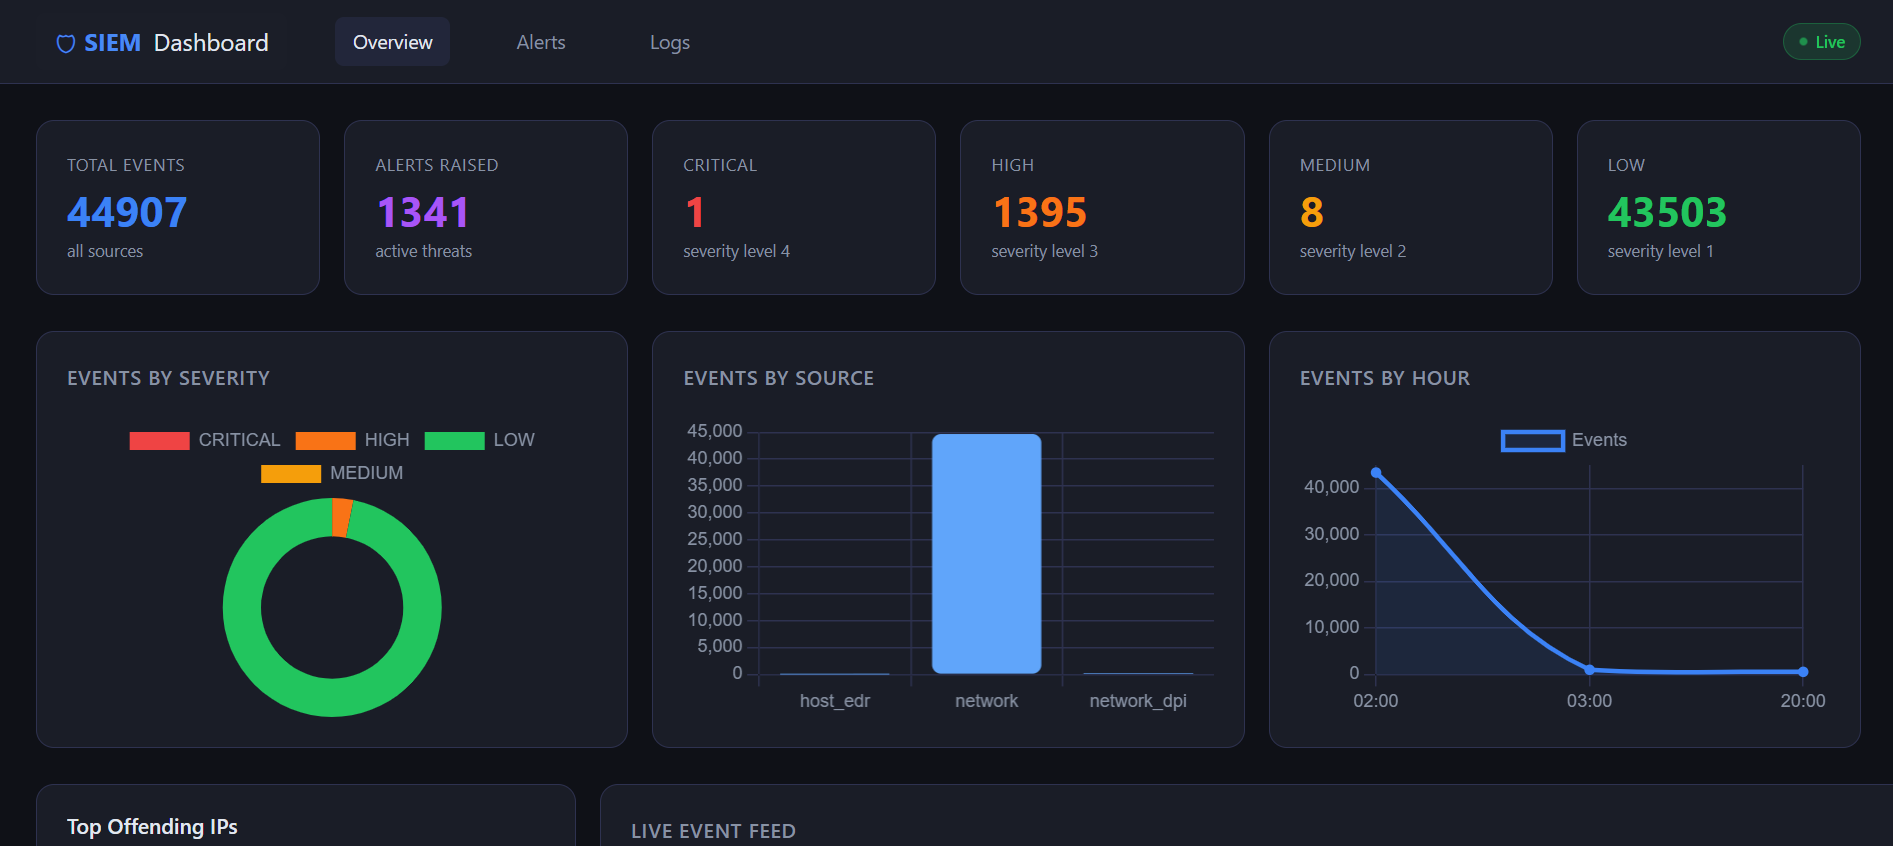
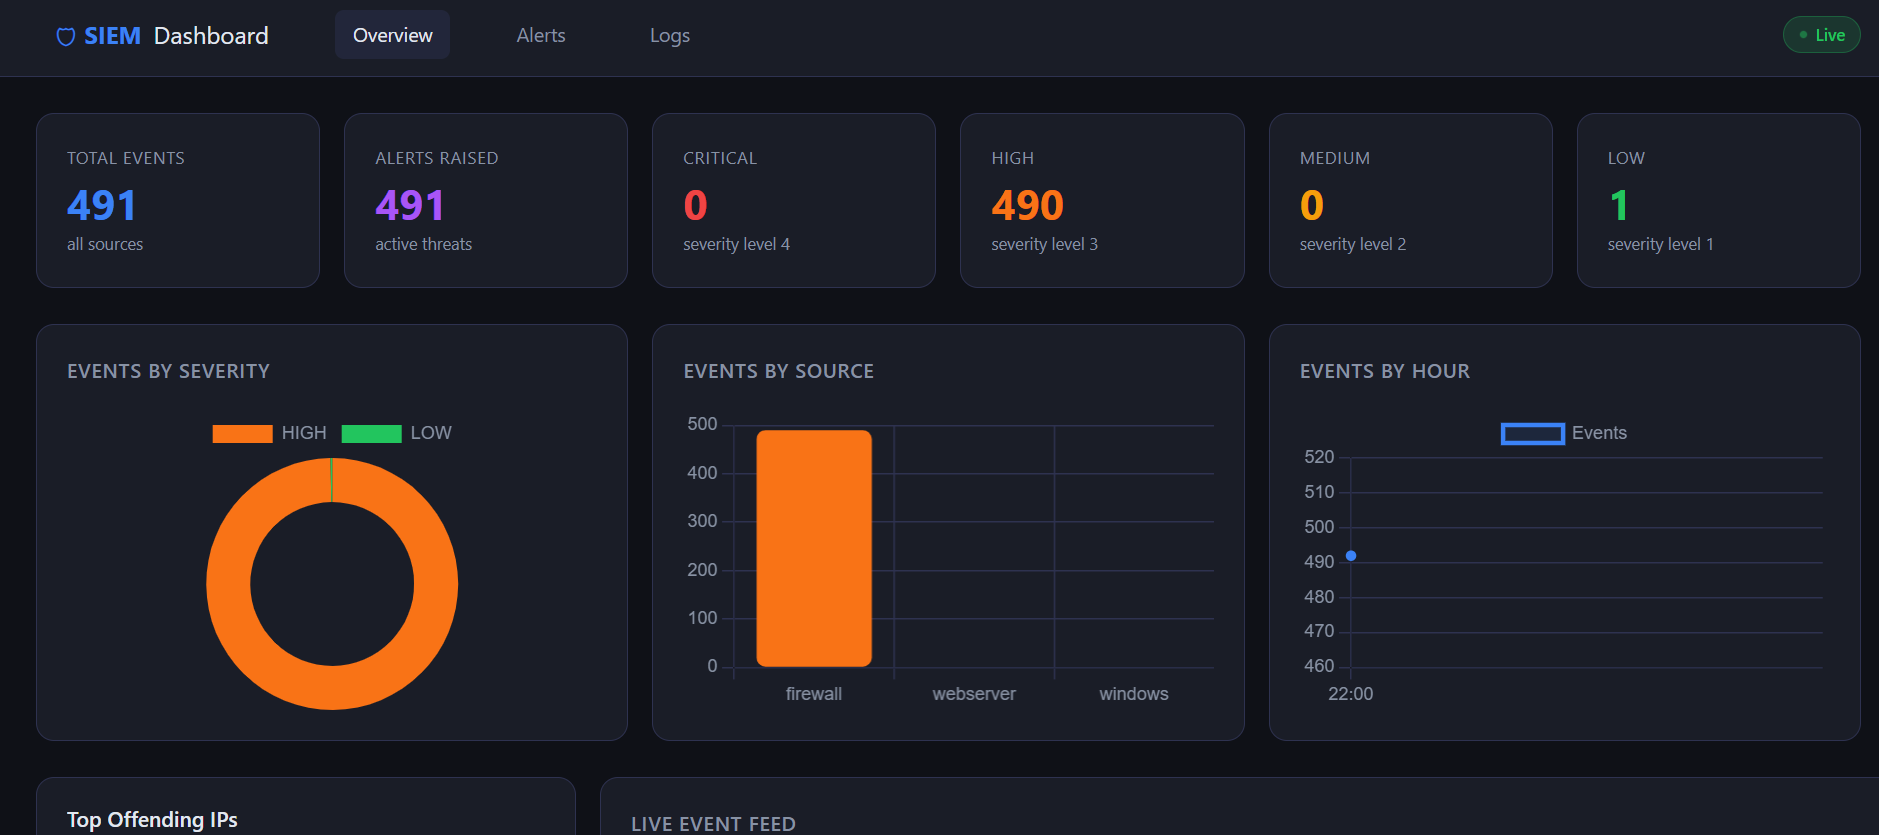
Feat: Complete SOAR Automated Incident Response loop with active firewall mitigation and real-time dashboard tracking

diff --git a/dashboard/templates/alerts.html b/dashboard/templates/alerts.html
@@ -53,7 +53,9 @@
             <td style="font-family:monospace;font-size:12px">{{ alert.src_ip }}</td>
             <td title="{{ alert.description }}">{{ alert.description[:70] }}{% if alert.description|length > 70 %}...{% endif %}</td>
             <td>
-              {% if alert.resolved %}
+              {% if alert.status == 'CONTAINED' %}
+                <span class="badge" style="background:rgba(14,165,233,.15);color:#0ea5e9;border:1px solid rgba(14,165,233,.3)">Contained</span>
+              {% elif alert.resolved %}
                 <span class="badge" style="background:rgba(34,197,94,.15);color:#22c55e;border:1px solid rgba(34,197,94,.3)">Resolved</span>
               {% else %}
                 <span class="badge" style="background:rgba(239,68,68,.1);color:#ef4444;border:1px solid rgba(239,68,68,.2)">Open</span>

diff --git a/soar_engine.py b/soar_engine.py
@@ -1,0 +1,90 @@
+"""
+soar_engine.py
+Aegis SOAR Automation Hub - Automated Incident Response Engine.
+Monitors the alerts database and auto-deploys local firewall blocks.
+"""
+
+import os
+import time
+import sqlite3
+import subprocess
+
+BASE_DIR = os.path.dirname(os.path.abspath(__file__))
+DB_PATH = os.path.join(BASE_DIR, "storage", "siem.db")
+
+# Keep track of malicious assets we have already blocked during this runtime session
+BLOCKED_IPS = set()
+
+def execute_firewall_ban(ip_address):
+    """Executes a native Windows Advanced Firewall inbound blocking rule via administrative shell"""
+    ip_clean = str(ip_address).strip()
+    
+    if not ip_clean or ip_clean in BLOCKED_IPS or "127.0.0.1" in ip_clean or "localhost" in ip_clean:
+        return False
+        
+    rule_name = f"AEGIS_SOAR_AUTO_BLOCK_{ip_clean}"
+    print(f"\n[💥 SOAR PLAYBOOK TRIGGERED] High severity threat isolated from IP: {ip_clean}")
+    print(f"[*] Orchestrating active containment defense. Deploying Windows Firewall rule...")
+
+    cmd = (
+        f'New-NetFirewallRule -DisplayName "{rule_name}" '
+        f'-Direction Inbound -Action Block -RemoteAddress "{ip_clean}" -Protocol Any'
+    )
+    
+    try:
+        subprocess.run(["powershell", "-Command", cmd], capture_output=True, text=True, check=True)
+        print(f"[🛡 SOAR MITIGATION SUCCESS] IP Address {ip_clean} is now completely banned at the kernel firewall level.")
+        BLOCKED_IPS.add(ip_clean)
+        return True
+    except subprocess.CalledProcessError as e:
+        print(f"[-] SOAR Orchestration failed (Ensure terminal is running as Administrator): {e.stderr.strip()}")
+        return False
+
+def monitor_alerts_pipeline():
+    """Continuously monitors the alerts data engine table for fresh high-risk triggers"""
+    print("[+] AEGIS ACTIVE CONTEXT SOAR ENGINE ONLINE: WATCHING FOR CRITICAL THREAT MATRIX ALERTS...")
+    
+    while True:
+        try:
+            conn = sqlite3.connect(DB_PATH)
+            cursor = conn.cursor()
+            
+            # CASE-INSENSITIVE CHECK: Lowercase comparison catches 'OPEN', 'Open', and 'open'
+            cursor.execute("""
+                SELECT id, alert_type, src_ip, description 
+                FROM alerts 
+                WHERE severity IN ('HIGH', 'CRITICAL') AND LOWER(status) = 'open'
+                ORDER BY timestamp DESC LIMIT 10
+            """)
+            active_threats = cursor.fetchall()
+            conn.close()
+            
+            for threat in active_threats:
+                threat_id, alert_type, src_ip, description = threat
+                
+                if str(alert_type).upper() in ("PORT_SCAN", "TRAFFIC_VOLUMETRIC_SPIKE", "WEB_ATTACK"):
+                    if src_ip:
+                        ip_clean = str(src_ip).strip()
+                        execute_firewall_ban(ip_clean)
+                        
+                        # Clean description tag to avoid duplicating labels if the loop runs twice
+                        clean_desc = description.replace("[SOAR AUTO-BLOCKED] ", "")
+                        
+                        # Update the status using strict uppercase 'CONTAINED' to match frontend templates
+                        conn = sqlite3.connect(DB_PATH)
+                        cursor = conn.cursor()
+                        cursor.execute("""
+                            UPDATE alerts 
+                            SET status = 'CONTAINED', description = ? 
+                            WHERE id = ?
+                        """, (f"[SOAR AUTO-BLOCKED] {clean_desc}", threat_id))
+                        conn.commit()
+                        conn.close()
+                            
+        except Exception as e:
+            print(f"[-] SOAR Pipeline checking exception: {e}")
+            
+        time.sleep(2)
+
+if __name__ == "__main__":
+    monitor_alerts_pipeline()

diff --git a/collector/fake_log_generator.py b/collector/fake_log_generator.py
@@ -10,7 +10,7 @@ Generates realistic fake security logs simulating:
 import random
 import sys
 import os
-from datetime import datetime, timedelta
+from datetime import datetime
 
 sys.path.insert(0, os.path.join(os.path.dirname(__file__), ".."))
 from config import FAKE_LOG_OUTPUT, FAKE_LOG_COUNT
@@ -20,7 +20,7 @@ from config import FAKE_LOG_OUTPUT, FAKE_LOG_COUNT
 ATTACKER_IPS = [
     "192.168.1.105", "10.0.0.44", "172.16.0.23",
     "45.33.32.156",  "198.51.100.7", "203.0.113.99",
-    "185.220.101.45","91.108.4.10",  "77.88.8.8",
+    "185.220.101.45", "91.108.4.10",  "77.88.8.8",
 ]
 
 INTERNAL_IPS = [
@@ -51,25 +51,21 @@ PORTS = [22, 23, 80, 443, 3306, 5432, 8080, 8443, 21, 25, 3389, 445]
 
 # ── Timestamp helper ─────────────────────────────────────────────────────────
 
-def random_timestamp(hours_back=24):
-    delta = timedelta(
-        hours=random.randint(0, hours_back),
-        minutes=random.randint(0, 59),
-        seconds=random.randint(0, 59),
-    )
-    return (datetime.now() - delta).strftime("%Y-%m-%d %H:%M:%S")
+def random_timestamp(hours_back=0):
+    """Overrides randomized lag delays to supply your exact current clock metrics"""
+    return datetime.now().strftime("%Y-%m-%d %H:%M:%S")
 
 # ── Individual log generators ────────────────────────────────────────────────
 
 def gen_windows_log():
     event_types = [
         ("4625", "FAILED_LOGIN",   "HIGH",   "An account failed to log on"),
-        ("4624", "SUCCESSFUL_LOGIN","LOW",   "An account was successfully logged on"),
-        ("4740", "ACCOUNT_LOCKOUT","CRITICAL","A user account was locked out"),
+        ("4624", "SUCCESSFUL_LOGIN", "LOW",    "An account was successfully logged on"),
+        ("4740", "ACCOUNT_LOCKOUT", "CRITICAL", "A user account was locked out"),
         ("4648", "EXPLICIT_CRED",  "MEDIUM", "Logon attempted using explicit credentials"),
         ("4672", "PRIV_LOGON",     "MEDIUM", "Special privileges assigned to new logon"),
         ("4688", "PROCESS_CREATE", "LOW",    "A new process has been created"),
-        ("7045", "SERVICE_INSTALL","HIGH",   "A new service was installed in the system"),
+        ("7045", "SERVICE_INSTALL", "HIGH",   "A new service was installed in the system"),
     ]
     eid, etype, severity, msg = random.choice(event_types)
     ip   = random.choice(ATTACKER_IPS + INTERNAL_IPS)
@@ -86,7 +82,7 @@ def gen_linux_log():
         ("SSH_SUCCESS",   "LOW",    lambda: f"Accepted password for {random.choice(USERNAMES)} from {random.choice(INTERNAL_IPS)} port {random.randint(1024,65535)} ssh2"),
         ("SUDO_CMD",      "MEDIUM", lambda: f"{random.choice(USERNAMES)} : TTY=pts/0 ; PWD=/home/{random.choice(USERNAMES)} ; USER=root ; COMMAND=/bin/bash"),
         ("INVALID_USER",  "HIGH",   lambda: f"Invalid user {random.choice(USERNAMES)} from {random.choice(ATTACKER_IPS)}"),
-        ("BRUTE_FORCE",   "CRITICAL",lambda: f"message repeated 10 times: Failed password for {random.choice(USERNAMES)} from {random.choice(ATTACKER_IPS)}"),
+        ("BRUTE_FORCE",   "CRITICAL", lambda: f"message repeated 10 times: Failed password for {random.choice(USERNAMES)} from {random.choice(ATTACKER_IPS)}"),
         ("CRON_JOB",      "LOW",    lambda: f"(root) CMD (/usr/lib/update-notifier/apt-check)"),
     ]
     etype, severity, msg_fn = random.choice(event_types)

diff --git a/run.py b/run.py
@@ -22,6 +22,7 @@ from parser.normalizer import normalize
 from storage.database import init_db, insert_log
 from detection.alert_engine import process_realtime_log
 from dashboard.app import create_app
+from soar_engine import monitor_alerts_pipeline
 
 # Configure rigorous system logging
 logging.basicConfig(level=logging.INFO, format='%(asctime)s - %(levelname)s - %(message)s')
@@ -134,7 +135,8 @@ if __name__ == "__main__":
         threading.Thread(target=siem_pipeline_processor, name="PipelineProcessor", daemon=True),
         threading.Thread(target=continuous_background_generator, name="MockTraffic", daemon=True),
         threading.Thread(target=start_sniffer_sensor, name="NetworkSniffer", daemon=True),
-        threading.Thread(target=start_hids_sensor, name="HIDSWorker", daemon=True)
+        threading.Thread(target=start_hids_sensor, name="HIDSWorker", daemon=True),
+        threading.Thread(target=monitor_alerts_pipeline, name="SOARWorker", daemon=True)
     ]
 
     # Boot thread grid

diff --git a/README.md b/README.md
@@ -1,13 +1,6 @@
-# AegisGuard: Hybrid SIEM & EDR Security Platform 🛡
+# Aegis: Hybrid SIEM, EDR & SOAR Security Platform
 
-A high-performance, multi-layered cyber defense platform engineered to combine deep network packet telemetry inspection with real-time host file integrity auditing (HIDS). 
-
-## 🚀 Key Architectural Pillars
-
-* **Network Telemetry Layer (`live_sniffer.py`):** Utilizes Scapy for real-time deep packet inspection (DPI). Implements automated Reverse DNS resolution and offline GeoIP country enrichment via MaxMind.
-* **Host EDR Layer (`fim_worker.py`):** Leverages a cryptographic SHA-256 baseline mapping matrix to monitor critical malware dropzones (`%APPDATA%`) and network configurations (`hosts` file) using event-driven file hooks.
-* **Intelligent Anomaly Detection:** Features a rolling statistical baseline engine utilizing standard deviation ($\mu + 3\sigma$) to catch volumetric traffic spikes without heavy ML dependencies.
-* **Enterprise SOC Escalation:** Implements a low-overhead memory batching buffer to protect SQLite from write-locks, paired with zero-latency webhook streams to Slack channels for immediate incident triage.
+Aegis is a local, multi-threaded **Security Information and Event Management (SIEM)**, **Endpoint Detection and Response (EDR)**, and **Security Orchestration, Automation, and Response (SOAR)** architecture. The application concurrently ingests multi-vector network traffic, enforces file system integrity tracking, and deploys automated local kernel-level firewall countermeasures against active threats.
 
 
 ## 🖥 Application Interface
@@ -15,12 +8,44 @@ A high-performance, multi-layered cyber defense platform engineered to combine d
 ![Aegis SIEM EDR Platform](preview.png)
 
 ---
-## 🛠 Local Deployment
 
-1. Install requirements: `pip install scapy watchdog geoip2`
-2. Place your `GeoLite2-Country.mmdb` inside the `storage/` directory.
-3. Boot the sensor stack:
-   ```bash
-   python live_sniffer.py
-   python fim_worker.py
-   python -m dashboard.app
+
+## 🌟 Key Architecture Pillars
+
+- **SIEM Engine:** Real-time deep packet inspection (via Scapy) and multi-threaded structured log parsing (`Windows Event Logs`, `Linux Syslog`, `Firewall Drops`, and `Web Exploit Patterns`).
+- **EDR Component:** Native File Integrity Monitoring (FIM via Watchdog API) guarding critical OS assets like `System32\drivers\etc\hosts`, User Desktops, Application Roaming data, and Windows Startup configurations.
+- **SOAR Automation Loop:** An active incident containment handler that intercepts high-severity alerts (`PORT_SCAN`, `WEB_ATTACK`) and orchestrates automated infrastructure mitigation via administrative **Windows Firewall Rules**.
+
+---
+
+## 🛠 Tech Stack & Dependencies
+
+- **Backend Architecture:** Python 3.10+ (Concurrently orchestrated using thread-safe structures)
+- **Web UI & Visualization:** Flask, Jinja2 Template Blocks, HTML5/CSS3 Grid Layouts
+- **Storage Layer:** Atomic SQLite Database Engine
+- **Telemetry Sensors:** Scapy (Network Sniffer/DPI), Watchdog (Kernel-level File System Listener)
+- **Active Response Wrapper:** Windows PowerShell Subprocess Layer
+
+---
+
+## 🚀 Operational Verification & Active Mitigation
+
+When an adversary initiates an attack, Aegis closes the incident lifecycle completely without human intervention:
+
+```text
+[ SIEM Network Sensor ] ──> Catching Port Scan Anomaly (192.168.44.112)
+           │
+           ▼
+[ Storage & Pipelines ] ──> Streaming structured log metrics into storage layer
+           │
+           ▼
+[ SOAR Playbook Loop  ] ──> Catching 'Open' High-Severity Threats in SQL Engine
+           │
+           ▼
+[ PowerShell Actions  ] ──> Spawning Administrative Isolation Shells quietly
+           │
+           ▼
+[ Kernel Enforcement  ] ──> New-NetFirewallRule deployed -> Remote Attacker IP Banned
+           │
+           ▼
+[ Dashboard UI View   ] ──> Status field transitions dynamically from "Open" -> "Contained"
